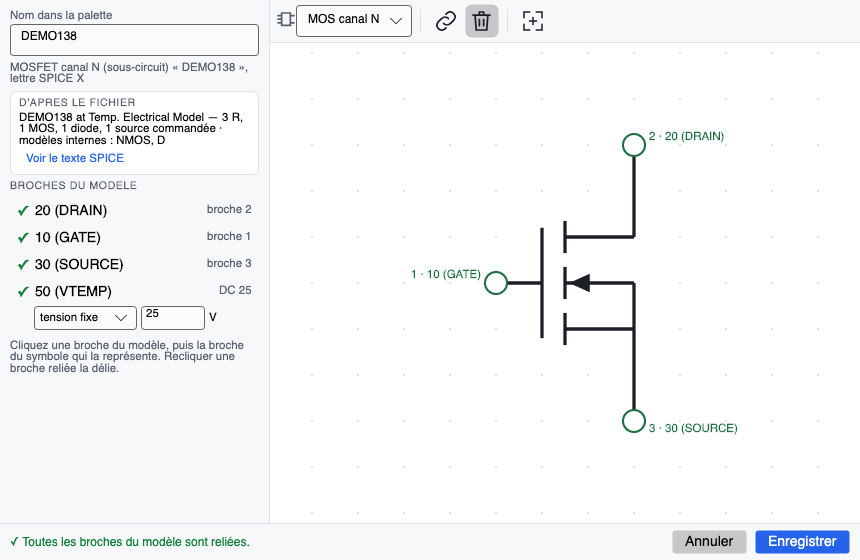
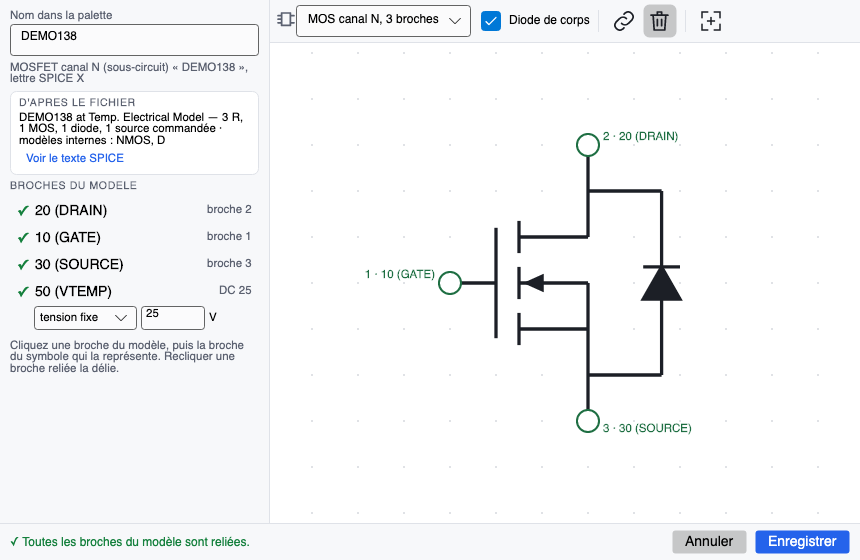
Symbole MOS : variantes 3 broches (substrat relié à la source) et 4 broches, diode de corps dessinée
Les broches de gabarit portent un rôle (D, G, S, B…) : changer de gabarit garde la correspondance.
Diode de corps cochée d'office quand le modèle en contient une.

Changed region(s): [[0.4233, 0.2125, 0.8767, 0.7893], [0.4535, 0.0, 0.786, 0.0911], [0.8163, 0.0304, 0.8465, 0.0607]]

diff --git a/app/src/Silx.Etude/DefinitionComposant.cs b/app/src/Silx.Etude/DefinitionComposant.cs
@@ -36,20 +36,25 @@ public sealed class BrocheSymbole
     public int Y { get; set; }
     /// <summary>Nom de la broche du modèle reliée (null = non reliée).</summary>
     public string? BrocheModele { get; set; }
-    public BrocheSymbole Clone() => new() { X = X, Y = Y, BrocheModele = BrocheModele };
+    /// <summary>Rôle de la broche dans un gabarit de dessin (D, G, S, B, C, E, A, K) ; null pour une boîte.</summary>
+    public string? Role { get; set; }
+    public BrocheSymbole Clone() => new() { X = X, Y = Y, BrocheModele = BrocheModele, Role = Role };
 }
 
 /// <summary>Gabarit de dessin d'un symbole.</summary>
-public enum GabaritSymbole { Boite, Diode, Npn, Pnp, Nmos, Pmos, Njf, Pjf }
+/// <summary>Gabarit de dessin d'un symbole. Nmos/Pmos : 4 broches (substrat B) ; Nmos3/Pmos3 : substrat relié à la source.</summary>
+public enum GabaritSymbole { Boite, Diode, Npn, Pnp, Nmos, Pmos, Njf, Pjf, Nmos3, Pmos3 }
 
 public sealed class Symbole
 {
     public GabaritSymbole Gabarit { get; set; } = GabaritSymbole.Boite;
+    /// <summary>MOS 3 broches : dessiner la diode de corps entre drain et source.</summary>
+    public bool DiodeCorps { get; set; }
     /// <summary>Corps rectangulaire (gabarit Boîte) : les broches hors du corps y sont reliées par un trait, et leur nom est écrit à l'intérieur.</summary>
     public double[]? Corps { get; set; }
     public List<Primitive> Traits { get; set; } = new();
     public List<BrocheSymbole> Broches { get; set; } = new();
-    public Symbole Clone() => new() { Gabarit = Gabarit, Corps = Corps?.ToArray(), Traits = Traits.Select(t => t.Clone()).ToList(), Broches = Broches.Select(b => b.Clone()).ToList() };
+    public Symbole Clone() => new() { Gabarit = Gabarit, DiodeCorps = DiodeCorps, Corps = Corps?.ToArray(), Traits = Traits.Select(t => t.Clone()).ToList(), Broches = Broches.Select(b => b.Clone()).ToList() };
 
     /// <summary>Encombrement en pas de grille : (xmin, ymin, xmax, ymax), broches et dessin compris.</summary>
     public (double X0, double Y0, double X1, double Y1) Encombrement()
@@ -125,12 +130,13 @@ public sealed class DefinitionComposant
         {
             // Sous-circuit reconnu (ex. MOSFET fabricant) : symbole du composant, broches reliées par rôle.
             d.Description = ModelesSpice.Libelle(nat) + " (sous-circuit)";
-            var s = GabaritsSymboles.PourType(nat, ModelesSpice.BrochesStandard(nat));   // broches nommées par rôle (D, G, S…)
-            foreach (var b in s.Broches)
-                b.BrocheModele = infos.Roles.FirstOrDefault(r => r.Value == b.BrocheModele).Key;
-            if (s.Broches.RemoveAll(b => b.BrocheModele == null) > 0 && nat is TypeModele.Nmos or TypeModele.Pmos)
-                s.Traits.Add(Primitive.Trait(3, 0, 3, 1));          // sans broche de substrat : substrat relié à la source (symbole 3 pattes)
-            d.Symbole = s;
+            var g = GabaritsSymboles.PourType(nat);
+            bool sansSubstrat = nat is TypeModele.Nmos or TypeModele.Pmos && !infos.Roles.Values.Contains("B");
+            if (sansSubstrat) g = nat == TypeModele.Nmos ? GabaritSymbole.Nmos3 : GabaritSymbole.Pmos3;
+            // Diode de corps dessinée si le modèle en contient une (élément ou modèle nommé « BODY »), sinon s'il contient des diodes.
+            bool diode = sansSubstrat && (System.Text.RegularExpressions.Regex.IsMatch(m.Texte, @"^\s*D\w*BODY|\.model\s+\w*BODY", System.Text.RegularExpressions.RegexOptions.IgnoreCase | System.Text.RegularExpressions.RegexOptions.Multiline)
+                                          || infos.Composition.Contains("diode"));
+            d.AppliquerGabarit(g, diode, infos.Roles);
             foreach (var b in d.BrochesModele.Where(b => !infos.Roles.ContainsKey(b)))
                 if (d.Libelles.TryGetValue(b, out var l) && l.Contains("TEMP", StringComparison.OrdinalIgnoreCase))
                     d.BrochesCachees[b] = "DC 25";   // HYPOTHÈSE : broche thermique = température en °C (25 = ambiante)
@@ -139,6 +145,33 @@ public sealed class DefinitionComposant
         d.Symbole = GabaritsSymboles.PourType(m.Type, d.BrochesModele);
         d.RelierAutomatiquement();
         return d;
+    }
+
+    /// <summary>Rôle connu de chaque broche du modèle : rôle déjà porté par le symbole, libellé du fichier, ou nom de la broche.</summary>
+    public Dictionary<string, string> RolesConnus()
+    {
+        var r = new Dictionary<string, string>(StringComparer.OrdinalIgnoreCase);
+        foreach (var b in Symbole.Broches.Where(b => b.Role != null && b.BrocheModele != null)) r.TryAdd(b.Role!, b.BrocheModele!);
+        foreach (var p in BrochesModele)
+            if (ModelesSpice.Role(Libelles.GetValueOrDefault(p, p)) is { } role) r.TryAdd(role, p);
+        return r;
+    }
+
+    /// <summary>
+    /// Remplace le symbole par un gabarit, en reliant chaque broche du gabarit à la broche du modèle de même rôle.
+    /// Une broche du modèle qui revient sur le symbole n'est plus raccordée d'office.
+    /// </summary>
+    public void AppliquerGabarit(GabaritSymbole g, bool diodeCorps = false, IReadOnlyDictionary<string, string>? rolesParBroche = null)
+    {
+        var parRole = RolesConnus();
+        if (rolesParBroche != null) foreach (var (p, role) in rolesParBroche) parRole[role] = p;
+        var visibles = BrochesModele.Where(n => !BrochesCachees.ContainsKey(n)).ToList();
+        Symbole = g == GabaritSymbole.Boite ? GabaritsSymboles.Boite(visibles) : GabaritsSymboles.Dessin(g, diodeCorps);
+        if (g != GabaritSymbole.Boite)
+            foreach (var b in Symbole.Broches)
+                b.BrocheModele = b.Role != null && parRole.TryGetValue(b.Role, out var p) ? p : BrochesModele.FirstOrDefault(n => string.Equals(n, b.Role, StringComparison.OrdinalIgnoreCase));
+        else RelierAutomatiquement();
+        foreach (var b in Symbole.Broches.Where(b => b.BrocheModele != null)) BrochesCachees.Remove(b.BrocheModele!);
     }
 
     /// <summary>Relie par nom les broches du symbole encore libres (casse ignorée), puis dans l'ordre pour celles qui restent.</summary>

diff --git a/app/src/Silx.Etude/GabaritsSymboles.cs b/app/src/Silx.Etude/GabaritsSymboles.cs
@@ -15,13 +15,15 @@ public static class GabaritsSymboles
     public static string Libelle(GabaritSymbole g) => g switch
     {
         GabaritSymbole.Boite => "Boîte", GabaritSymbole.Diode => "Diode", GabaritSymbole.Npn => "NPN", GabaritSymbole.Pnp => "PNP",
-        GabaritSymbole.Nmos => "MOS canal N", GabaritSymbole.Pmos => "MOS canal P", GabaritSymbole.Njf => "JFET canal N", _ => "JFET canal P"
+        GabaritSymbole.Nmos => "MOS canal N, 4 broches", GabaritSymbole.Pmos => "MOS canal P, 4 broches",
+        GabaritSymbole.Nmos3 => "MOS canal N, 3 broches", GabaritSymbole.Pmos3 => "MOS canal P, 3 broches",
+        GabaritSymbole.Njf => "JFET canal N", _ => "JFET canal P"
     };
 
     /// <summary>Crée le symbole d'un gabarit ; les broches du gabarit sont reliées aux broches du modèle de même nom (sinon laissées libres).</summary>
     public static Symbole Creer(GabaritSymbole g, IReadOnlyList<string> brochesModele)
     {
-        var s = g == GabaritSymbole.Boite ? Boite(brochesModele) : Dessin(g);
+        var s = g == GabaritSymbole.Boite ? Boite(brochesModele) : Dessin(g, false);
         if (g != GabaritSymbole.Boite)
             foreach (var b in s.Broches)
                 b.BrocheModele = brochesModele.FirstOrDefault(n => string.Equals(n, b.BrocheModele, StringComparison.OrdinalIgnoreCase));
@@ -45,11 +47,12 @@ public static class GabaritsSymboles
         return s;
     }
 
-    static BrocheSymbole B(int x, int y, string nom) => new() { X = x, Y = y, BrocheModele = nom };
+    static BrocheSymbole B(int x, int y, string nom) => new() { X = x, Y = y, BrocheModele = nom, Role = nom };
 
-    static Symbole Dessin(GabaritSymbole g)
+    /// <summary>Gabarit dessiné ; broches nommées par rôle (D, G, S…). <paramref name="diodeCorps"/> : MOS 3 broches seulement.</summary>
+    public static Symbole Dessin(GabaritSymbole g, bool diodeCorps)
     {
-        var s = new Symbole { Gabarit = g };
+        var s = new Symbole { Gabarit = g, DiodeCorps = diodeCorps && g is GabaritSymbole.Nmos3 or GabaritSymbole.Pmos3 };
         var t = s.Traits;
         switch (g)
         {
@@ -72,14 +75,29 @@ public static class GabaritsSymboles
                 break;
             case GabaritSymbole.Nmos:
             case GabaritSymbole.Pmos:
-                // G à gauche, D en haut, S en bas, substrat B à droite.
-                s.Broches.AddRange([B(0, 0, "G"), B(3, -3, "D"), B(3, 3, "S"), B(3, 0, "B")]);
+            case GabaritSymbole.Nmos3:
+            case GabaritSymbole.Pmos3:
+            {
+                // G à gauche, D en haut, S en bas ; substrat B à droite (4 broches) ou relié à la source (3 broches).
+                bool canalN = g is GabaritSymbole.Nmos or GabaritSymbole.Nmos3, trois = g is GabaritSymbole.Nmos3 or GabaritSymbole.Pmos3;
+                s.Broches.AddRange([B(0, 0, "G"), B(3, -3, "D"), B(3, 3, "S")]);
+                if (!trois) s.Broches.Add(B(3, 0, "B"));
+                else t.Add(Primitive.Trait(3, 0, 3, 1));
+                if (s.DiodeCorps)
+                {
+                    // Diode de corps : anode côté source pour un canal N (cathode au drain), l'inverse pour un canal P.
+                    t.Add(Primitive.Trait(3, -2, 4.6, -2)); t.Add(Primitive.Trait(4.6, -2, 4.6, -0.35));
+                    t.Add(Primitive.Trait(3, 2, 4.6, 2)); t.Add(Primitive.Trait(4.6, 2, 4.6, 0.35));
+                    if (canalN) { t.Add(Primitive.Poly(true, 4.2, 0.35, 5.0, 0.35, 4.6, -0.35)); t.Add(Primitive.Trait(4.2, -0.35, 5.0, -0.35)); }
+                    else { t.Add(Primitive.Poly(true, 4.2, -0.35, 5.0, -0.35, 4.6, 0.35)); t.Add(Primitive.Trait(4.2, 0.35, 5.0, 0.35)); }
+                }
                 t.Add(Primitive.Trait(0, 0, 1, 0)); t.Add(Primitive.Trait(1, -1.2, 1, 1.2));
                 foreach (var y in new[] { -1.0, 0.0, 1.0 }) t.Add(Primitive.Trait(1.5, y - 0.35, 1.5, y + 0.35));
                 t.Add(Primitive.Trait(1.5, -1, 3, -1)); t.Add(Primitive.Trait(3, -1, 3, -3));
                 t.Add(Primitive.Trait(1.5, 1, 3, 1)); t.Add(Primitive.Trait(3, 1, 3, 3));
-                t.Add(g == GabaritSymbole.Nmos ? Primitive.Fleche(3, 0, 1.5, 0) : Primitive.Fleche(1.5, 0, 3, 0));
+                t.Add(canalN ? Primitive.Fleche(3, 0, 1.5, 0) : Primitive.Fleche(1.5, 0, 3, 0));
                 break;
+            }
             case GabaritSymbole.Njf:
             case GabaritSymbole.Pjf:
                 s.Broches.AddRange([B(0, 0, "G"), B(3, -3, "D"), B(3, 3, "S")]);

diff --git a/app/src/Silx.App/EditeurSymbole.cs b/app/src/Silx.App/EditeurSymbole.cs
@@ -20,6 +20,7 @@ public sealed class EditeurSymbole : Window
     readonly Button _ok;
     readonly Button _ajouter, _supprimer;
     readonly ComboBox _gabarit;
+    readonly CheckBox _diode = new() { Content = "Diode de corps", FontSize = 12, Margin = new Thickness(8, 0, 0, 0), VerticalAlignment = VerticalAlignment.Center };
     readonly Vue _vue;
     /// <summary>Broche du modèle choisie dans la liste, en attente d'une broche du symbole.</summary>
     public string? BrocheModeleChoisie { get; private set; }
@@ -59,6 +60,9 @@ public sealed class EditeurSymbole : Window
         _gabarit.SelectionChanged += (_, _) => { if (_gabarit.SelectedIndex >= 0 && _gabarit.SelectedIndex != (int)Definition.Symbole.Gabarit) ChoisirGabarit((GabaritSymbole)_gabarit.SelectedIndex); };
         var bar = new StackPanel { Orientation = Orientation.Horizontal, Spacing = 2, Margin = new Thickness(8, 4) };
         bar.Children.Add(Icones.Make(Icones.Symbole, 16, Ui.Muted)); bar.Children.Add(_gabarit);
+        _diode.IsCheckedChanged += (_, _) => DiodeDeCorps(_diode.IsChecked == true);
+        ToolTip.SetTip(_diode, "Dessiner la diode de corps entre drain et source (le modèle SPICE n'est pas modifié)");
+        bar.Children.Add(_diode);
         bar.Children.Add(Ui.Separator());
         bar.Children.Add(Icones.Button(Icones.Relier, "Relier automatiquement par nom les broches encore libres", () => { Definition.RelierAutomatiquement(); Rafraichir(); }));
         _ajouter = Icones.Button(Icones.AjouterBroche, "Ajouter une broche au symbole (boîte)", () => { BrocheSymboleChoisie = Definition.Symbole.Broches.IndexOf(GabaritsSymboles.AjouterBroche(Definition.Symbole)); Lier(); Rafraichir(); });
@@ -91,9 +95,15 @@ public sealed class EditeurSymbole : Window
     // ── actions (publiques pour les tests) ──
     public void ChoisirGabarit(GabaritSymbole g)
     {
-        Definition.Symbole = GabaritsSymboles.Creer(g, Definition.BrochesModele);
-        if (g == GabaritSymbole.Boite) Definition.RelierAutomatiquement();
+        Definition.AppliquerGabarit(g, Definition.Symbole.DiodeCorps);
         BrocheSymboleChoisie = null; _gabarit.SelectedIndex = (int)g; Rafraichir();
+    }
+
+    /// <summary>MOS 3 broches : afficher ou masquer la diode de corps (dessin seulement : le modèle ne change pas).</summary>
+    public void DiodeDeCorps(bool oui)
+    {
+        if (Definition.Symbole.Gabarit is not (GabaritSymbole.Nmos3 or GabaritSymbole.Pmos3) || Definition.Symbole.DiodeCorps == oui) return;
+        Definition.AppliquerGabarit(Definition.Symbole.Gabarit, oui); Rafraichir();
     }
 
     public void ChoisirBrocheModele(string? n)
@@ -196,6 +206,8 @@ public sealed class EditeurSymbole : Window
         _etat.Foreground = BrocheModeleChoisie != null ? Ui.AccentBrush : err != null ? Ui.FailBrush : pb.Count > 0 ? Ui.WarnBrush : Ui.PassBrush;
         _ok.IsEnabled = err == null;
         _ajouter.IsVisible = Definition.Symbole.Gabarit == GabaritSymbole.Boite;
+        _diode.IsVisible = Definition.Symbole.Gabarit is GabaritSymbole.Nmos3 or GabaritSymbole.Pmos3;
+        _diode.IsChecked = Definition.Symbole.DiodeCorps;
         _supprimer.IsEnabled = BrocheSymboleChoisie != null;
         _vue.InvalidateVisual();
     }

diff --git a/app/tests/Silx.App.Tests/ModelesFabricantTests.cs b/app/tests/Silx.App.Tests/ModelesFabricantTests.cs
@@ -53,8 +53,9 @@ public class ModelesFabricantTests
     public void Sous_circuit_reconnu_prend_le_symbole_mos_et_raccorde_la_broche_thermique()
     {
         var d = DefinitionComposant.Depuis(Modele("DEMO138"));
-        Assert.Equal(GabaritSymbole.Nmos, d.Symbole.Gabarit);
-        Assert.Equal(3, d.Symbole.Broches.Count);                       // G, D, S : pas de broche de substrat
+        Assert.Equal(GabaritSymbole.Nmos3, d.Symbole.Gabarit);          // G, D, S : substrat relié à la source
+        Assert.Equal(3, d.Symbole.Broches.Count);
+        Assert.True(d.Symbole.DiodeCorps);                                // Dbody dans le modèle
         string Sur(int x, int y) => d.Symbole.Broches.Single(b => b.X == x && b.Y == y).BrocheModele!;
         Assert.Equal("10", Sur(0, 0)); Assert.Equal("20", Sur(3, -3)); Assert.Equal("30", Sur(3, 3));
         Assert.Equal("DC 25", d.BrochesCachees["50"]);
@@ -97,5 +98,20 @@ public class ModelesFabricantTests
         var r = await Verification.RunAsync(e, banc, [], TestContext.Current.CancellationToken);
         Assert.True(r.Erreur == null, r.Erreur + "\n" + r.Journal);
         Assert.InRange(r.Resultats[AnalyseKind.Transitoire].Vector("v(out)")[^1], 0, 0.1);
+    }
+
+    [Fact]
+    public void Passer_en_4_broches_garde_les_roles_et_demande_le_substrat()
+    {
+        var d = DefinitionComposant.Depuis(Modele("DEMO138"));
+        d.AppliquerGabarit(GabaritSymbole.Nmos, false);
+        Assert.Equal(4, d.Symbole.Broches.Count);
+        Assert.Equal("10", d.Symbole.Broches.Single(b => b.Role == "G").BrocheModele);
+        Assert.Equal("20", d.Symbole.Broches.Single(b => b.Role == "D").BrocheModele);
+        Assert.Null(d.Symbole.Broches.Single(b => b.Role == "B").BrocheModele);   // le modèle n'a pas de broche de substrat
+        d.AppliquerGabarit(GabaritSymbole.Nmos3, true);
+        Assert.Equal(3, d.Symbole.Broches.Count); Assert.True(d.Symbole.DiodeCorps);
+        Assert.Equal("30", d.Symbole.Broches.Single(b => b.Role == "S").BrocheModele);
+        Assert.DoesNotContain(d.Verifier(), p => p.Severity == Severity.Error);
     }
 }
